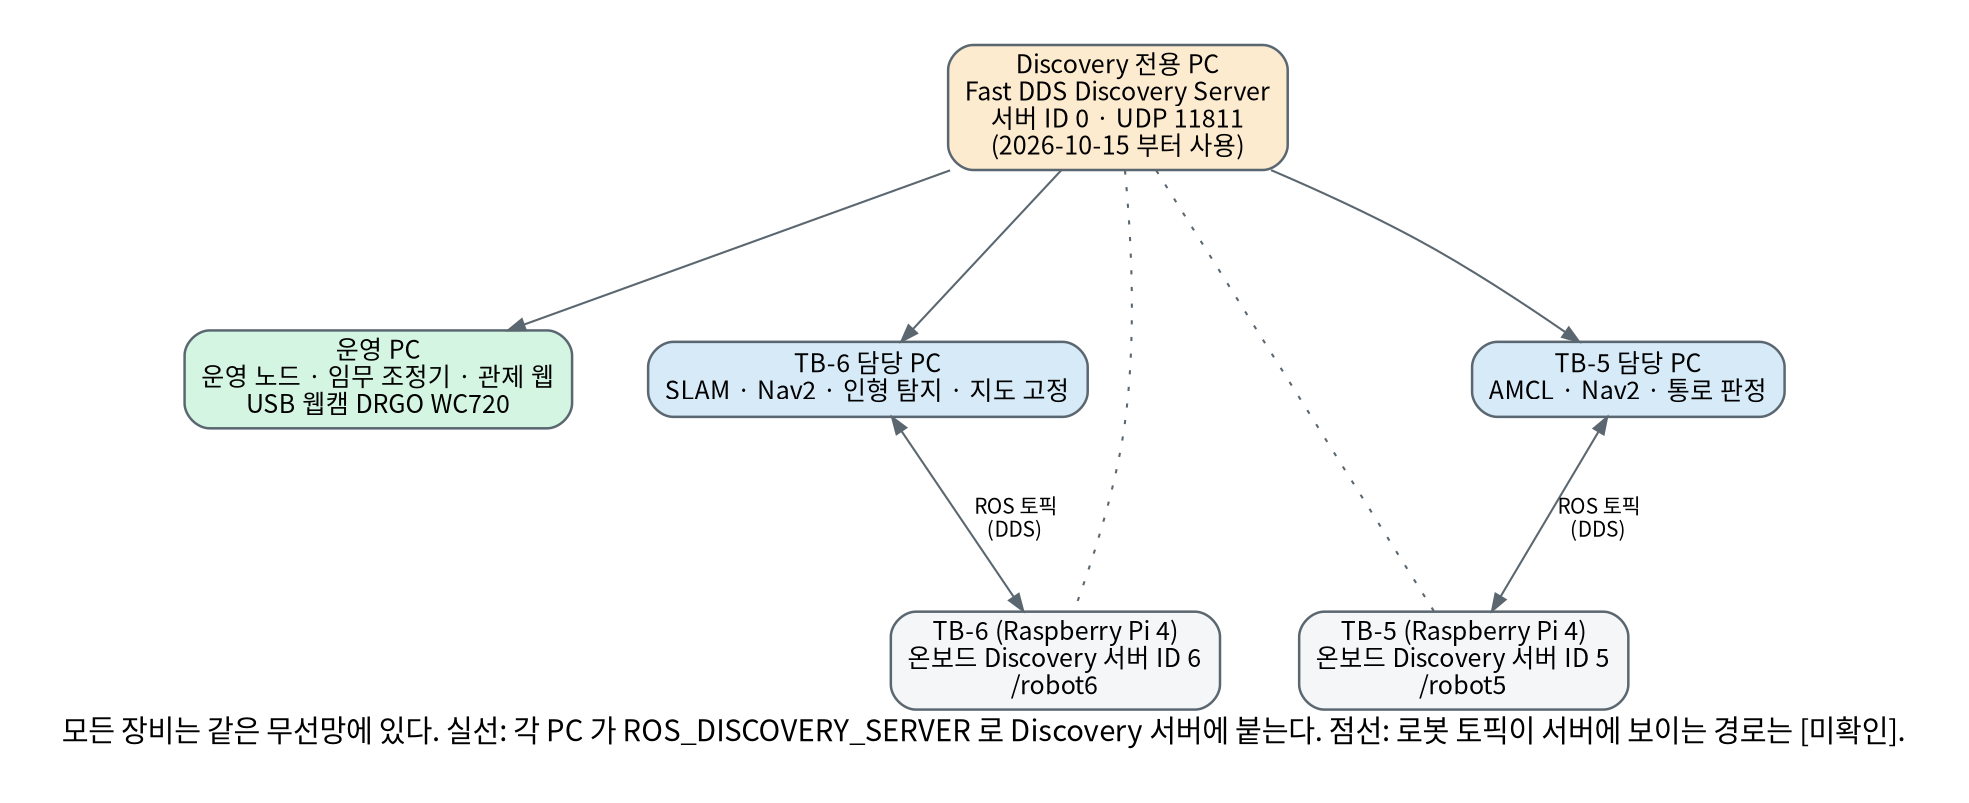
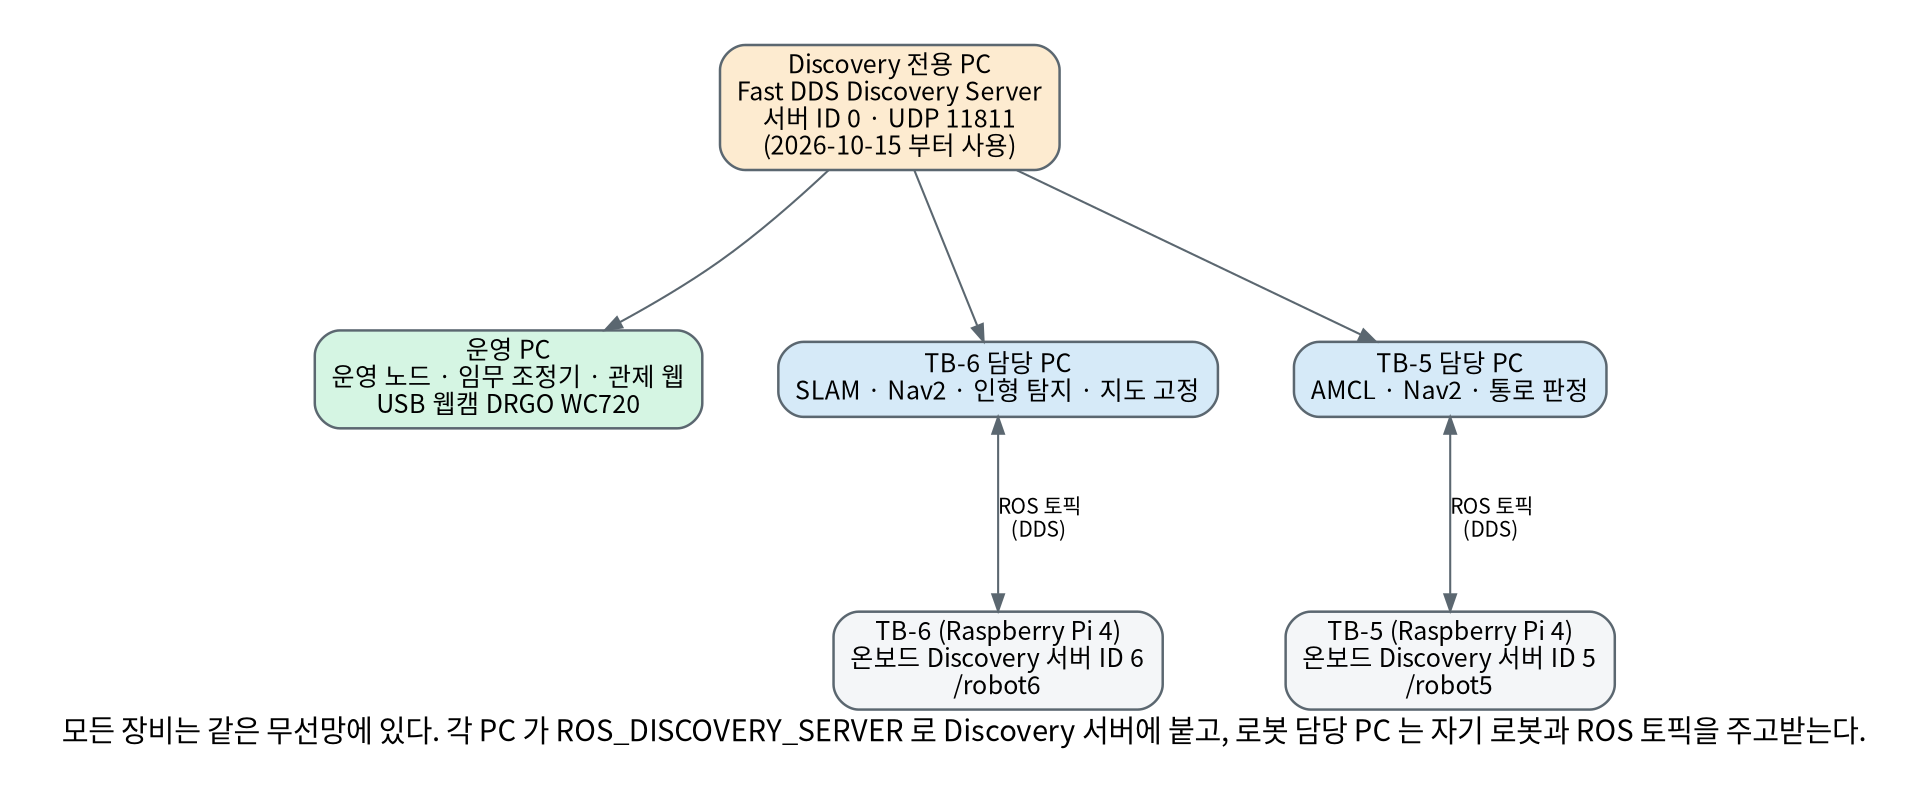
docs(readme): 0 ~ 6절만 남기고 4.2 작업 환경 배치·5.3 관제 웹 추가, [미확인] 문구 삭제
기준 구성(개요~실행 순서)에 맞춰 7절을 지우고 상태 줄과 [미확인]·[미측정] 문구를 없앴다.
네트워크 그림에서 확인되지 않은 경로 표시도 뺐고, 작업 환경 배치 그림(cell_layout)을 추가했다.

diff --git a/README.md b/README.md
@@ -12,7 +12,6 @@
 - **개발 환경**: Ubuntu 24.04 LTS, ROS 2 Jazzy, Python 3.12
 - **주요 기술 스택**: ROS 2, Nav2, slam_toolbox · AMCL, Fast DDS Discovery Server, YOLO26n (ultralytics), OpenCV, Flask (관제 웹), SQLite
 - **기간**: 2026.10.08 ~ 2026.10.16
-- **상태**: 2026-10-14 기준 두 실제 로봇으로 처음부터 끝까지 돌린 기록은 아직 없다. 가짜 로봇을 쓴 ROS 통합 시험과 로봇 한 대씩의 실기 기록만 있다. 안전 때문에 위치·지도·시각을 모르면 로봇은 움직이지 않는다.
 
 ## 1. 시스템 설계
 
@@ -50,7 +49,7 @@ HTTP      운영 PC  POST /api/operator-commands · GET·POST /api/webcam
 
 PC 와 로봇은 같은 무선망에 있고, 노드 발견은 Fast DDS Discovery Server 로 한다.
 2026-10-15 부터 모든 PC 가 Discovery 전용 PC 의 서버(ID 0, UDP 11811)에 붙는다. 로봇 Pi 의 온보드 서버(TB-5 ID 5, TB-6 ID 6)는 바꾸지 않았다.
-로봇 토픽이 전용 서버로 보이는 경로는 [미확인]이다. 자세한 운영은 [Discovery 전용 PC 운영 안내](docs/process/discovery-host.md)를 따른다.
+자세한 운영은 [Discovery 전용 PC 운영 안내](docs/process/discovery-host.md)를 따른다.
 
 ### 1.3 PC 별로 도는 것
 
@@ -75,7 +74,7 @@ PC 와 로봇은 같은 무선망에 있고, 노드 발견은 Fast DDS Discovery
 
 | 대상 | 방식 | 한계 |
 | --- | --- | --- |
-| 지진 징후 | 고정 웹캠 화면 전체의 왕복(방향 전환) 횟수를 센다. 손 가림·어두움·렌즈 막힘·영상 끊김은 지진 근거가 아니라 판단 보류로 둔다 | 판정 값은 현장에서 잰 ROI·임계에 의존한다. 일부 값은 [미측정] |
+| 지진 징후 | 고정 웹캠 화면 전체의 왕복(방향 전환) 횟수를 센다. 손 가림·어두움·렌즈 막힘·영상 끊김은 지진 근거가 아니라 판단 보류로 둔다 | 판정 값은 현장에서 잰 ROI·임계에 의존한다 |
 | 인형(구조 대상) | OAK-D 영상에서 YOLO26n 으로 탐지(`assets/models/best.pt`, survivor v2), 깊이로 거리를 얻어 지도 좌표로 바꾼다 | 원거리 confidence 가 낮았다. 사람 오탐 재평가는 남아 있다 |
 | 인형 소실 감시 | 웹캠 영상에 YOLO26n (`assets/models/webcam-yolo26n-best.pt`) | 소실 후보만으로 구출 완료로 처리하지 않는다 |
 | 출구 | 탐색 중 QR 을 읽고, 허용 목록 글자와 정확히 같을 때만 출구로 기록한다 (예 `EXIT-1`, `EXIT-2`) | QR 이 없으면 TB-5 출발 자리가 출구다 |
@@ -125,7 +124,7 @@ PC 와 로봇은 같은 무선망에 있고, 노드 발견은 Fast DDS Discovery
 | ROS 2 | Jazzy (`ros-jazzy-desktop` 0.11.0, `navigation2` 1.3.13, `slam-toolbox` 2.8.5) | `dpkg -l` |
 | Python | 3.12.3 | `python3 --version` |
 
-이 값은 개발에 쓴 PC 한 대의 것이다. 현장 PC 4대의 사양은 [미확인]이다.
+이 값은 개발에 쓴 PC 한 대의 것이다.
 
 ### 워크스페이스 배치
 
@@ -166,10 +165,22 @@ ROKEY-7/
 | 고정 웹캠 | DRGO(디알고) WC720 | 지진 징후 판정·인형 소실 감시. 운영 PC 에 USB 로 연결 |
 | 출구 표시 | QR 코드 | 허용 목록 글자(`EXIT-1`, `EXIT-2` …)와 정확히 같을 때만 출구 |
 | 구조 대상 | 인형 | 사람 대신 쓰는 대상 |
-| PC ×4 | 운영 PC · TB-6 담당 PC · TB-5 담당 PC · Discovery 전용 PC | 사양은 [미확인]. 시험 중에는 TB-6·TB-5 담당 PC 를 한 PC 에서 돌리기도 한다 |
+| PC ×4 | 운영 PC · TB-6 담당 PC · TB-5 담당 PC · Discovery 전용 PC | 시험 중에는 TB-6·TB-5 담당 PC 를 한 PC 에서 돌리기도 한다 |
 
 - 로봇 한 대는 한 번에 한 사람·한 세션만 움직인다. 언도크·도킹·이동 전후에 팀에 알린다.
 - 로봇에 패키지를 설치하거나 업그레이드하지 않는다. 로봇 설정 변경은 사용자 승인과 백업·해시·되돌리는 방법 기록을 거친다.
+
+### 4.2 작업대 · 작업물
+
+![작업 환경 배치](docs/diagrams/cell_layout.png)
+
+| 구성 | 내용 |
+| --- | --- |
+| 고정 웹캠 | 한 대가 현장을 보며 지진 흔들림과 인형 소실을 본다 |
+| 인형 | 구조 대상. 시연 때 배치하고, 구조대원이 출구 쪽으로 옮기면 웹캠에서 사라진다 |
+| 출구 QR | 허용 목록 글자(`EXIT-1`, `EXIT-2` …)와 정확히 같은 것만 출구로 쓴다. 없으면 TB-5 출발 자리가 출구다 |
+| 머리 위 구조물 | 머리 위에 비스듬히 걸친 기둥 통로. 라이다가 못 보는 높이라 깊이 카메라로 46 cm 여유를 재서 통과를 판정한다 |
+| 로봇 자리 | TB-5 는 대기 자리(출발 자리)에서 출동한다. TB-6 는 탐색을 마치면 도킹 접근 지점으로 간다(도킹은 사람) |
 
 ## 5. 의존성
 
@@ -201,6 +212,14 @@ ultralytics 8.4.170 · torch 2.14.1 · torchvision 0.29.1
 opencv-python 4.9.0.80 · numpy 1.26.4 · scipy 1.11.4 · Pillow 10.2.0
 Flask 3.1.3 · pydantic 1.10.14 · PyYAML 6.0.1
 pytest 9.1.1
+```
+
+### 5.3 관제 웹
+
+관제 웹(`rescue_console`)은 Flask 가 HTML 을 직접 그려 보내는 서버 렌더링이다. 별도 프론트엔드 빌드와 npm 의존성은 없다.
+
+```text
+Flask 3.1.3 (pip) · 브라우저는 표준 HTML 만 사용
 ```
 
 ## 6. 실행 순서
@@ -281,12 +300,3 @@ PYTHONPATH=src/rescue_bringup python3 -m rescue_bringup config/deployment.exampl
 ```
 
 `STATIC CONFIG VALID` 는 정적 파일 검사 성공이다. 로봇·ROS 그래프·실제 시계·주행 준비를 검증한 결과가 아니다.
-
-## 7. 더 읽을 문서
-
-- [작업 규칙 (AGENTS.md)](AGENTS.md) — 브랜치·PR·증거 표기·로봇 안전 규칙
-- [범위와 결정 기록](docs/requirements/scope.md) — 사용자 요구, 지금 시나리오, 미결정 사항
-- [시스템 구조](docs/design/architecture.md) · [인터페이스 계약](docs/design/contracts.md) · [상태 전이](docs/design/state-machines.md)
-- [현장 실행 안내](src/rescue_bringup/README.md) · [네트워크·Discovery Server](docs/design/network-discovery.md)
-- [개발과 로컬 검사](docs/implementation/development.md) · [용어집](docs/glossary.md)
-- 그림 원본은 [tools/diagrams](tools/diagrams)의 Graphviz `.dot` 파일이다. `bash tools/diagrams/build.sh` 로 `docs/diagrams/*.png` 를 다시 만든다.
